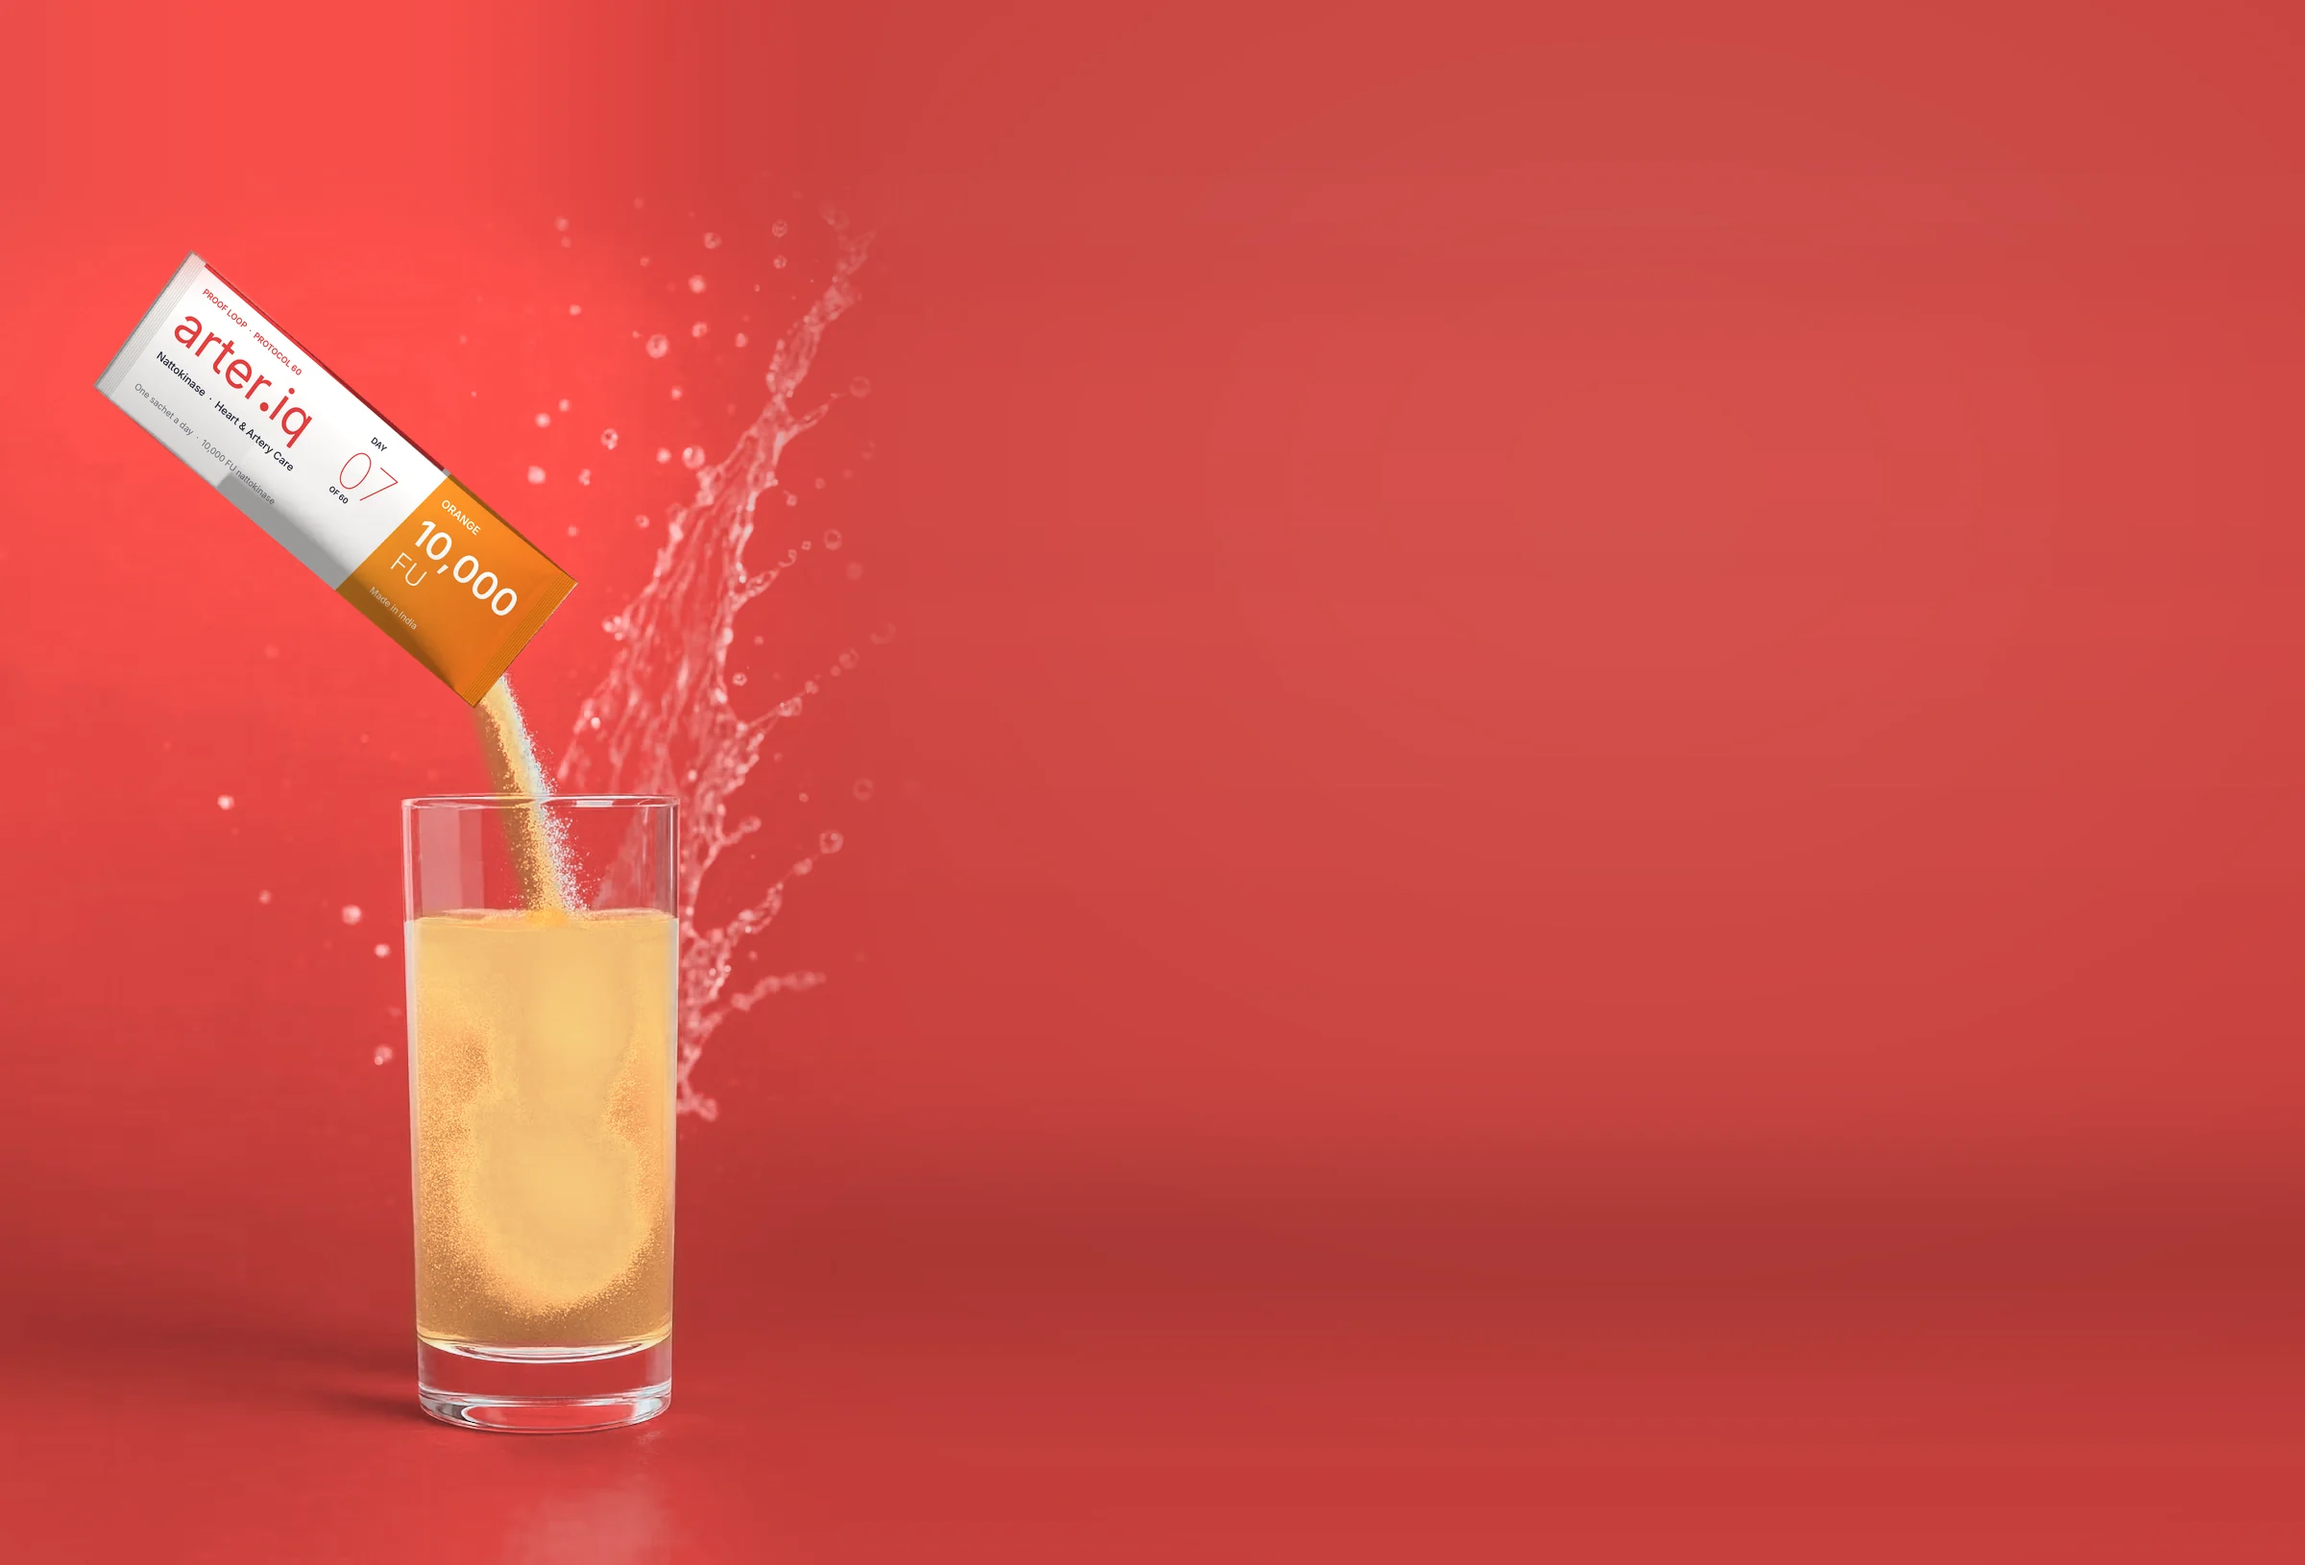
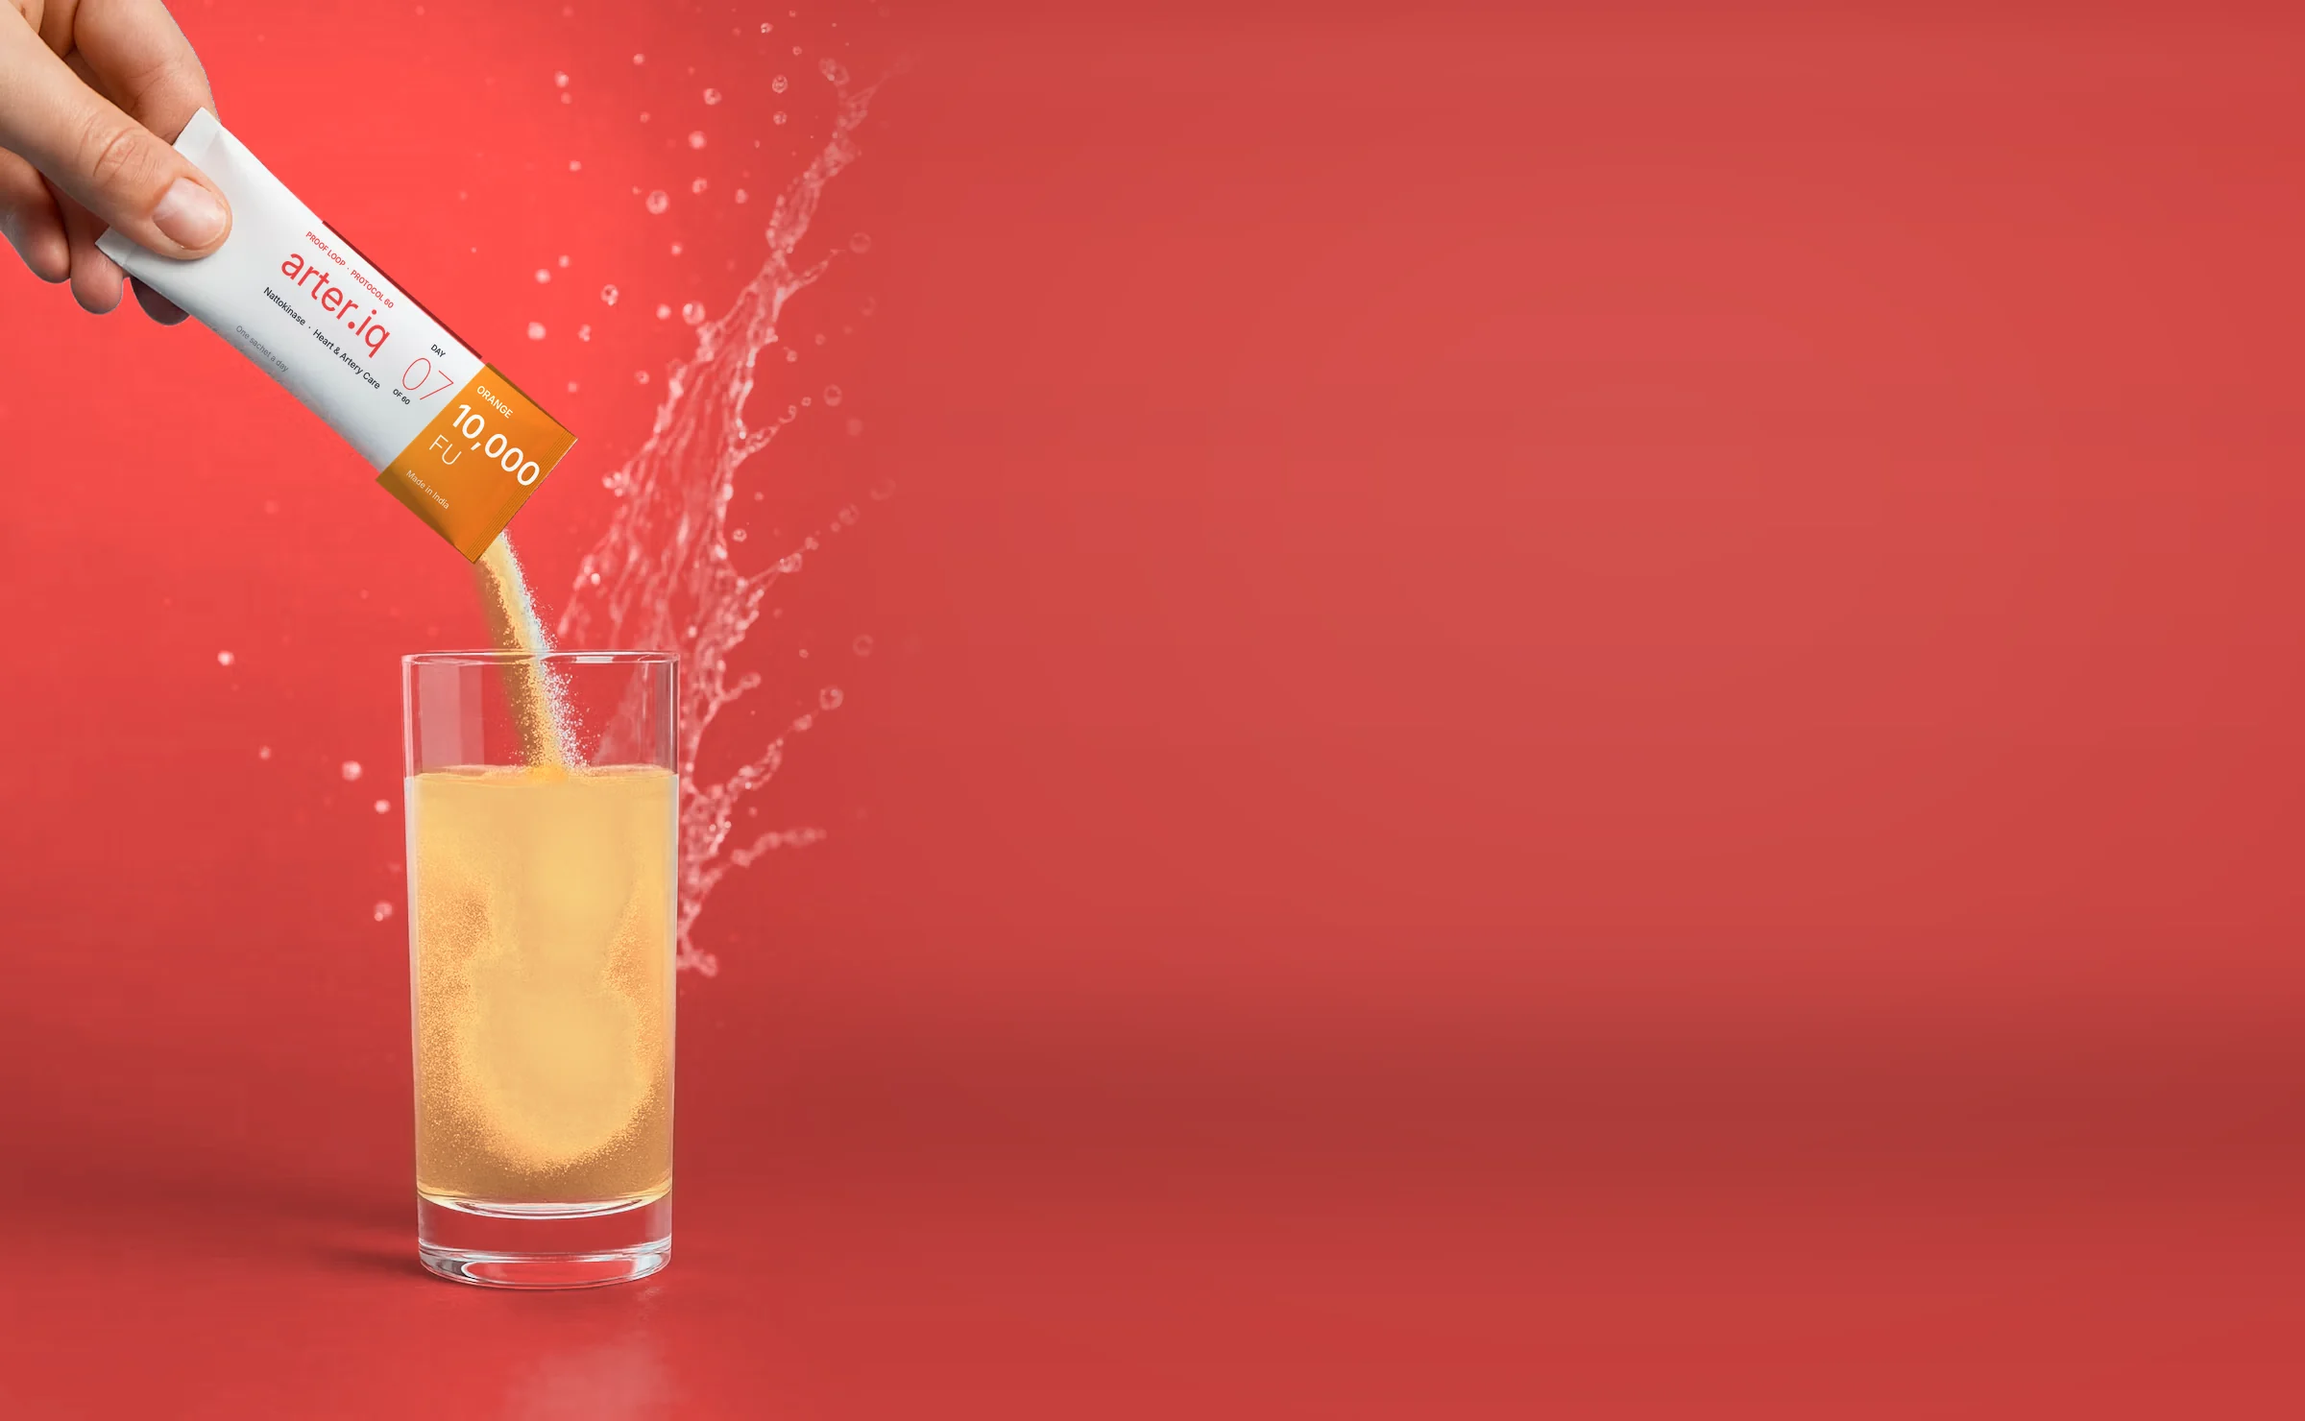
Hero: back to hand photo with new sachet print; white header bar
Claude-Session: https://claude.ai/code/session_01PkeobWmfrChtD7SqVdFZLv

Changed region(s): [[0.0, 0.0, 0.375, 0.7149], [0.1562, 0.6216, 0.3125, 0.9324]]

diff --git a/index.html b/index.html
@@ -1242,29 +1242,14 @@ a{color:#4A5163}a:hover{color:#E63E3E}
 .leapfu b{font-weight:600;color:#FFFFFF}
 @media (min-width:1001px){.hfull .leaph{font-size:clamp(44px,4.1vw,64px)!important}}
 /* transparent header over hero */
-body:has(.hfull) .hdr:not(.sc) .hbar{background:transparent!important;box-shadow:none!important;-webkit-backdrop-filter:none!important;backdrop-filter:none!important}
-body:has(.hfull) .hdr:not(.sc) .logo{color:#FFFFFF!important}
-body:has(.hfull) .hdr:not(.sc) .ldesc{color:#FFFFFF!important;border-left-color:rgba(255,255,255,.4)!important}
-body:has(.hfull) .hdr:not(.sc) .hnav a{color:#FFFFFF!important;opacity:.92!important}
-body:has(.hfull) .hdr:not(.sc) .hnav a svg *{stroke:#FFFFFF}
-body:has(.hfull) .hdr:not(.sc) .hcta{background:#FFFFFF!important;color:#E63E3E!important}
 .hdr .hbar,.hdr .logo,.hdr .hnav a,.hdr .hcta{transition:background .4s,color .4s,box-shadow .4s,height .35s}
-.hbg::before{content:"";position:absolute;left:0;right:0;top:0;height:180px;z-index:1;background:linear-gradient(180deg,rgba(60,8,12,.42) 0%,rgba(60,8,12,.18) 50%,rgba(60,8,12,0) 100%);pointer-events:none}
-body:has(.hfull) .hdr:not(.sc) .hcta-i{background:#E63E3E!important}
-body:has(.hfull) .hdr:not(.sc) .hcta-i svg *{stroke:#FFFFFF!important}
-body:has(.hfull) .hdr:not(.sc) .logo,body:has(.hfull) .hdr:not(.sc) .hnav a,body:has(.hfull) .hdr:not(.sc) .ldesc{text-shadow:0 1px 14px rgba(60,8,12,.35)}
-@media (min-width:1001px){.hbg picture{transform:translateY(-6%)!important;height:106%!important}}
 /* v2: photo below header, solid facts bar */
-@media (min-width:1001px){.hbg picture{transform:none!important;height:100%!important}.hbg img{object-position:0% 0%!important}}
-@media (max-width:1000px){.leapbx.hfull{padding-top:calc(min(170vw,880px))!important}}
-.hbg::before{height:120px!important;background:linear-gradient(180deg,rgba(60,8,12,.22),rgba(60,8,12,0))!important}
 .hfull .prf{background:#FFFFFF!important;border:0!important;box-shadow:0 30px 60px -28px rgba(70,10,14,.55),0 2px 8px rgba(70,10,14,.12)!important;-webkit-backdrop-filter:none!important;backdrop-filter:none!important}
 .hfull .prf b{color:#1F2333!important}
 .hfull .prf .prfl{color:#6A7080!important}
 .hfull .prfic{background:#FFF1EC!important;box-shadow:none!important}
 .hfull .prfi{border-left-color:#F1E7E2!important}
-body:has(.hfull) .hdr:not(.sc) a[href="#top"] svg{filter:brightness(0) invert(1)}
-@media (max-width:1000px){.leapbx.hfull{padding-top:calc(min(150vw,780px))!important}}
+.hfull .hbg{top:69px!important}@media (max-width:1000px){.leapbx.hfull{padding-top:calc(min(142vw,740px) + 40px)!important}}
 
 [hidden]{display:none!important}
 </style>

diff --git a/science.html b/science.html
@@ -1242,29 +1242,14 @@ a{color:#4A5163}a:hover{color:#E63E3E}
 .leapfu b{font-weight:600;color:#FFFFFF}
 @media (min-width:1001px){.hfull .leaph{font-size:clamp(44px,4.1vw,64px)!important}}
 /* transparent header over hero */
-body:has(.hfull) .hdr:not(.sc) .hbar{background:transparent!important;box-shadow:none!important;-webkit-backdrop-filter:none!important;backdrop-filter:none!important}
-body:has(.hfull) .hdr:not(.sc) .logo{color:#FFFFFF!important}
-body:has(.hfull) .hdr:not(.sc) .ldesc{color:#FFFFFF!important;border-left-color:rgba(255,255,255,.4)!important}
-body:has(.hfull) .hdr:not(.sc) .hnav a{color:#FFFFFF!important;opacity:.92!important}
-body:has(.hfull) .hdr:not(.sc) .hnav a svg *{stroke:#FFFFFF}
-body:has(.hfull) .hdr:not(.sc) .hcta{background:#FFFFFF!important;color:#E63E3E!important}
 .hdr .hbar,.hdr .logo,.hdr .hnav a,.hdr .hcta{transition:background .4s,color .4s,box-shadow .4s,height .35s}
-.hbg::before{content:"";position:absolute;left:0;right:0;top:0;height:180px;z-index:1;background:linear-gradient(180deg,rgba(60,8,12,.42) 0%,rgba(60,8,12,.18) 50%,rgba(60,8,12,0) 100%);pointer-events:none}
-body:has(.hfull) .hdr:not(.sc) .hcta-i{background:#E63E3E!important}
-body:has(.hfull) .hdr:not(.sc) .hcta-i svg *{stroke:#FFFFFF!important}
-body:has(.hfull) .hdr:not(.sc) .logo,body:has(.hfull) .hdr:not(.sc) .hnav a,body:has(.hfull) .hdr:not(.sc) .ldesc{text-shadow:0 1px 14px rgba(60,8,12,.35)}
-@media (min-width:1001px){.hbg picture{transform:translateY(-6%)!important;height:106%!important}}
 /* v2: photo below header, solid facts bar */
-@media (min-width:1001px){.hbg picture{transform:none!important;height:100%!important}.hbg img{object-position:0% 0%!important}}
-@media (max-width:1000px){.leapbx.hfull{padding-top:calc(min(170vw,880px))!important}}
-.hbg::before{height:120px!important;background:linear-gradient(180deg,rgba(60,8,12,.22),rgba(60,8,12,0))!important}
 .hfull .prf{background:#FFFFFF!important;border:0!important;box-shadow:0 30px 60px -28px rgba(70,10,14,.55),0 2px 8px rgba(70,10,14,.12)!important;-webkit-backdrop-filter:none!important;backdrop-filter:none!important}
 .hfull .prf b{color:#1F2333!important}
 .hfull .prf .prfl{color:#6A7080!important}
 .hfull .prfic{background:#FFF1EC!important;box-shadow:none!important}
 .hfull .prfi{border-left-color:#F1E7E2!important}
-body:has(.hfull) .hdr:not(.sc) a[href="#top"] svg{filter:brightness(0) invert(1)}
-@media (max-width:1000px){.leapbx.hfull{padding-top:calc(min(150vw,780px))!important}}
+.hfull .hbg{top:69px!important}@media (max-width:1000px){.leapbx.hfull{padding-top:calc(min(142vw,740px) + 40px)!important}}
 
 [hidden]{display:none!important}
 </style>
